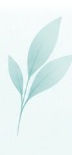
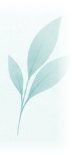
improve dashboard typography and upload prescription button

Changed region(s): [[0.8889, 0.3355, 1.0, 0.4645]]

diff --git a/frontend/src/app/dashboard/layout.tsx b/frontend/src/app/dashboard/layout.tsx
@@ -84,25 +84,25 @@ export default function DashboardLayout({
           <defs>
             <linearGradient id="waveTopGrad1" x1="0%" y1="0%" x2="100%" y2="100%">
               <stop offset="0%" className="editorial-wave-top1" />
-              <stop offset="45%" stopColor="#e2f5ee" stopOpacity="0.5" />
-              <stop offset="100%" stopColor="#edf8f4" stopOpacity="0.1" />
+              <stop offset="45%" stopColor="#edf7f3" stopOpacity="0.35" />
+              <stop offset="100%" stopColor="#f8fbf9" stopOpacity="0.05" />
             </linearGradient>
             <linearGradient id="waveTopGrad2" x1="0%" y1="100%" x2="100%" y2="0%">
               <stop offset="0%" className="editorial-wave-top2" />
-              <stop offset="60%" stopColor="#dcf3ea" stopOpacity="0.35" />
-              <stop offset="100%" stopColor="#f3faf7" stopOpacity="0.05" />
+              <stop offset="60%" stopColor="#edf8f4" stopOpacity="0.25" />
+              <stop offset="100%" stopColor="#f8fbf9" stopOpacity="0.02" />
             </linearGradient>
             <linearGradient id="waveTopGrad3" x1="100%" y1="0%" x2="0%" y2="100%">
-              <stop offset="0%" stopColor="#aee0ce" stopOpacity="0.45" />
-              <stop offset="100%" stopColor="#d2eee3" stopOpacity="0.1" />
+              <stop offset="0%" stopColor="#bee8da" stopOpacity="0.3" />
+              <stop offset="100%" stopColor="#edf8f4" stopOpacity="0.05" />
             </linearGradient>
           </defs>
           {/* Broad sweeping wave */}
-          <path d="M 0 0 C 160 190, 340 300, 550 250 C 690 220, 780 130, 850 60 L 850 0 Z" fill="url(#waveTopGrad1)" />
+          <path d="M 0 0 C 160 190, 340 300, 550 250 C 690 220, 780 130, 850 60 L 850 0 Z" fill="url(#waveTopGrad1)" fillOpacity="0.55" />
           {/* Mid organic curve */}
-          <path d="M 90 0 C 240 150, 410 240, 620 210 C 740 190, 810 110, 850 30 L 850 0 Z" fill="url(#waveTopGrad2)" />
+          <path d="M 90 0 C 240 150, 410 240, 620 210 C 740 190, 810 110, 850 30 L 850 0 Z" fill="url(#waveTopGrad2)" fillOpacity="0.4" />
           {/* Accent feathered wave ridge */}
-          <path d="M 300 0 C 410 190, 540 280, 720 240 C 790 225, 830 170, 850 120 L 850 0 Z" fill="url(#waveTopGrad3)" />
+          <path d="M 300 0 C 410 190, 540 280, 720 240 C 790 225, 830 170, 850 120 L 850 0 Z" fill="url(#waveTopGrad3)" fillOpacity="0.25" />
         </svg>
 
         {/* Bottom-Right Rolling Waves (Sweeping under Upload FAB) */}
@@ -114,18 +114,18 @@ export default function DashboardLayout({
         >
           <defs>
             <linearGradient id="waveBottomGrad1" x1="0%" y1="0%" x2="100%" y2="100%">
-              <stop offset="0%" stopColor="#f1faf6" stopOpacity="0.2" />
+              <stop offset="0%" stopColor="#f8fbf9" stopOpacity="0.1" />
               <stop offset="50%" className="editorial-wave-bottom" />
-              <stop offset="100%" stopColor="#bee7d7" stopOpacity="0.85" />
+              <stop offset="100%" stopColor="#cbeee0" stopOpacity="0.65" />
             </linearGradient>
             <linearGradient id="waveBottomGrad2" x1="0%" y1="100%" x2="100%" y2="0%">
-              <stop offset="0%" stopColor="#e2f5ed" stopOpacity="0.3" />
-              <stop offset="60%" stopColor="#c7ebdc" stopOpacity="0.65" />
-              <stop offset="100%" stopColor="#b4e4d2" stopOpacity="0.75" />
+              <stop offset="0%" stopColor="#f0faf5" stopOpacity="0.2" />
+              <stop offset="60%" stopColor="#d4f1e5" stopOpacity="0.45" />
+              <stop offset="100%" stopColor="#c5ecdc" stopOpacity="0.55" />
             </linearGradient>
           </defs>
-          <path d="M 0 320 C 190 300, 360 225, 530 190 C 640 170, 700 200, 750 230 L 750 320 Z" fill="url(#waveBottomGrad1)" />
-          <path d="M 200 320 C 340 280, 470 185, 620 160 C 690 150, 730 170, 750 190 L 750 320 Z" fill="url(#waveBottomGrad2)" />
+          <path d="M 0 320 C 190 300, 360 225, 530 190 C 640 170, 700 200, 750 230 L 750 320 Z" fill="url(#waveBottomGrad1)" fillOpacity="0.6" />
+          <path d="M 200 320 C 340 280, 470 185, 620 160 C 690 150, 730 170, 750 190 L 750 320 Z" fill="url(#waveBottomGrad2)" fillOpacity="0.4" />
         </svg>
 
         {/* Bottom-Left Wave under Sidebar */}
@@ -134,8 +134,8 @@ export default function DashboardLayout({
           viewBox="0 0 320 260" 
           fill="none"
         >
-          <path d="M 0 110 C 90 130, 160 190, 240 260 L 0 260 Z" fill="#d4eee3" fillOpacity="0.75" />
-          <path d="M 0 170 C 50 180, 110 210, 160 260 L 0 260 Z" fill="#bee8d9" fillOpacity="0.5" />
+          <path d="M 0 110 C 90 130, 160 190, 240 260 L 0 260 Z" fill="#dcf4eb" fillOpacity="0.5" />
+          <path d="M 0 170 C 50 180, 110 210, 160 260 L 0 260 Z" fill="#cbeee1" fillOpacity="0.35" />
         </svg>
       </div>
 
@@ -232,7 +232,7 @@ export default function DashboardLayout({
           {/* Sidebar Footer with Exact Botanical Leaf Sprig & Poetic Tagline */}
           <div className="p-5 pb-6 flex items-end gap-3.5 select-none pointer-events-none">
             <div className="w-10 h-20 shrink-0">
-              <img src="/sidebar-leaf.png" alt="" className="w-full h-full object-contain" />
+              <img src="/sidebar-leaf.png" alt="" className="w-full h-full object-contain mix-blend-multiply opacity-70 dark:opacity-60" />
             </div>
             <div className="text-[11px] leading-relaxed text-slate-500 dark:text-slate-400 italic font-editorial-serif pb-1">
               <p>Better care</p>

diff --git a/frontend/src/app/dashboard/page.tsx b/frontend/src/app/dashboard/page.tsx
@@ -114,7 +114,7 @@ export default function DashboardOverview() {
             <img 
               src="/hero-doctor.png" 
               alt="Physician consultation" 
-              className="w-full h-auto object-contain"
+              className="w-full h-auto object-contain mix-blend-multiply opacity-80 dark:opacity-70 dark:mix-blend-screen transition-opacity"
             />
           </div>
 
@@ -270,16 +270,46 @@ export default function DashboardOverview() {
       </section>
 
       {/* =========================================================================
-          FLOATING ACTION BUTTON — PRESCRIPTION UPLOAD (Matches Reference)
+          FLOATING ACTION BUTTON — PRESCRIPTION UPLOAD (Written Elegantly)
           ========================================================================= */}
-      <div className="fixed bottom-6 right-6 sm:bottom-8 sm:right-8 z-40 flex items-end gap-2.5 pointer-events-auto select-none">
-        <div className="w-28 h-28 shrink-0 -mb-2 pointer-events-none">
-          <img src="/bottom-leaf.png" alt="Upload prescription" className="w-full h-full object-contain" />
+      <div className="fixed bottom-6 right-6 sm:bottom-8 sm:right-8 z-40 flex items-end gap-2 pointer-events-auto select-none">
+        {/* Delicate Botanical Sprout (Soft & Blended) */}
+        <div className="w-16 h-14 sm:w-20 sm:h-16 shrink-0 pointer-events-none -mr-2 mb-2">
+          <img 
+            src="/bottom-leaf.png" 
+            alt="" 
+            className="w-full h-full object-contain mix-blend-multiply opacity-75 dark:opacity-60" 
+          />
         </div>
 
+        {/* Elegant Handcrafted Callout: "Upload prescription ⤴" */}
+        <div className="flex items-center gap-1.5 mb-3 pointer-events-none">
+          <div className="text-right font-editorial-serif italic text-xs sm:text-[13px] leading-tight text-slate-500 dark:text-teal-300 font-medium tracking-tight">
+            <p>Upload</p>
+            <p className="whitespace-nowrap">prescription</p>
+          </div>
+
+          {/* Delicate Hand-Drawn Style Curved Arrow pointing to the FAB */}
+          <svg 
+            className="w-6 h-5 text-slate-400 dark:text-teal-400 shrink-0" 
+            viewBox="0 0 28 22" 
+            fill="none" 
+            stroke="currentColor" 
+            strokeWidth="1.6" 
+            strokeLinecap="round" 
+            strokeLinejoin="round"
+          >
+            {/* Smooth looping curve swoop */}
+            <path d="M 2 14 C 9 17, 18 16, 24 6" />
+            {/* Arrowhead */}
+            <path d="M 19 5 L 25 5 L 25 11" />
+          </svg>
+        </div>
+
+        {/* Circular Dark Teal FAB */}
         <Link 
           href="/dashboard/scan"
-          className="fab-upload-btn group mb-3 shrink-0"
+          className="fab-upload-btn group mb-2 shrink-0"
           title="Upload prescription"
         >
           <Plus className="w-6 h-6 stroke-[2.5] text-white group-hover:rotate-90 transition-transform duration-300" />

diff --git a/frontend/src/app/dashboard/dashboard.css b/frontend/src/app/dashboard/dashboard.css
@@ -290,29 +290,29 @@
 }
 
 .editorial-wave-top1 {
-  stop-color: #cdeee2;
-  stop-opacity: 0.8;
+  stop-color: #d8f2e8;
+  stop-opacity: 0.55;
 }
 .editorial-wave-top2 {
-  stop-color: #bee8d9;
-  stop-opacity: 0.65;
+  stop-color: #c9ede0;
+  stop-opacity: 0.45;
 }
 .editorial-wave-bottom {
-  stop-color: #d2ede3;
-  stop-opacity: 0.85;
+  stop-color: #d9f2e9;
+  stop-opacity: 0.6;
 }
 
 .dark .editorial-wave-top1 {
-  stop-color: #0e3d36;
-  stop-opacity: 0.6;
+  stop-color: #0b2e29;
+  stop-opacity: 0.4;
 }
 .dark .editorial-wave-top2 {
-  stop-color: #124e45;
-  stop-opacity: 0.5;
+  stop-color: #0e3d36;
+  stop-opacity: 0.35;
 }
 .dark .editorial-wave-bottom {
-  stop-color: #0c362f;
-  stop-opacity: 0.7;
+  stop-color: #0a2924;
+  stop-opacity: 0.5;
 }
 
 .font-editorial-serif {
